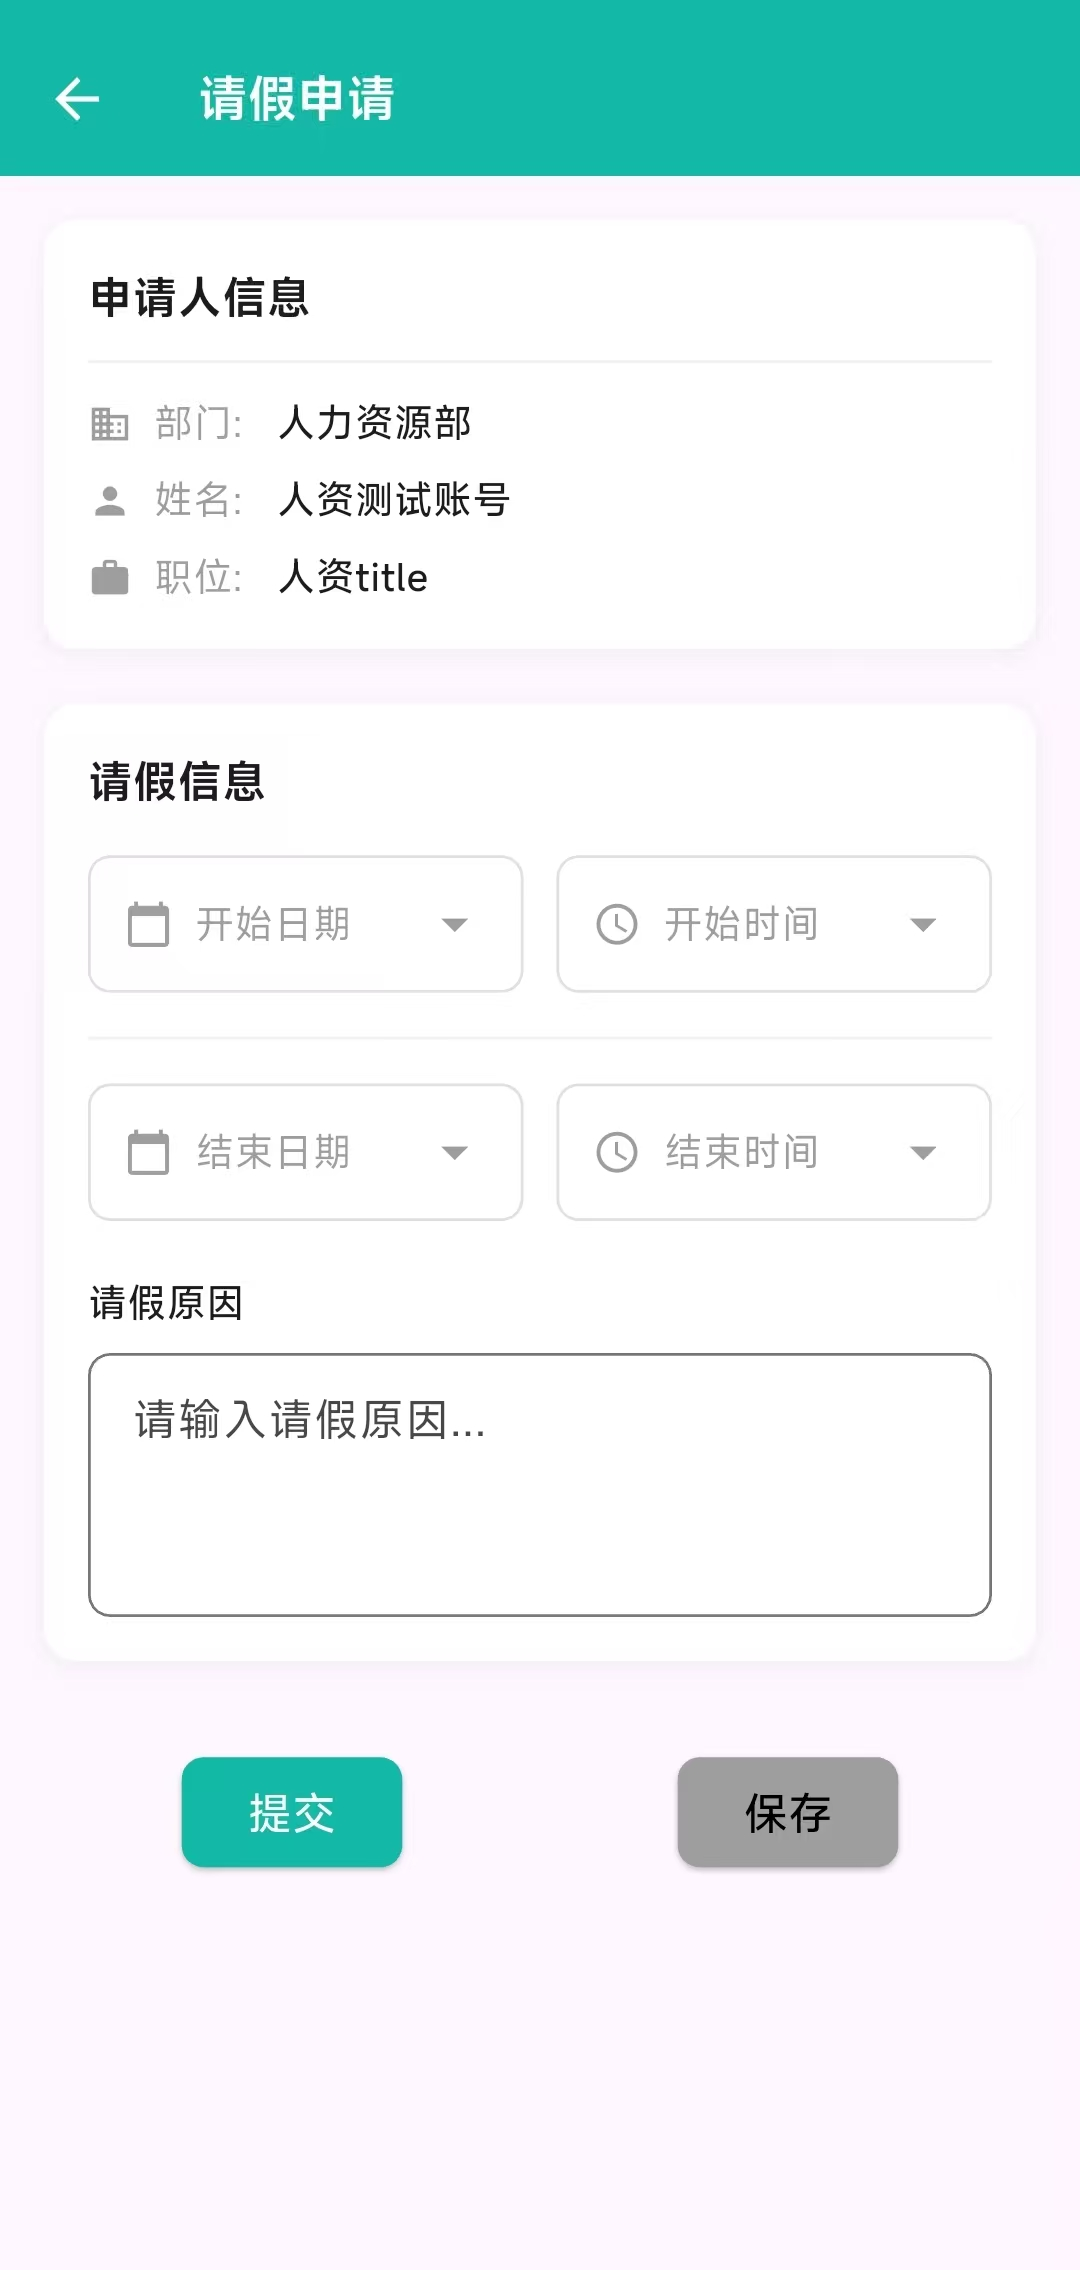
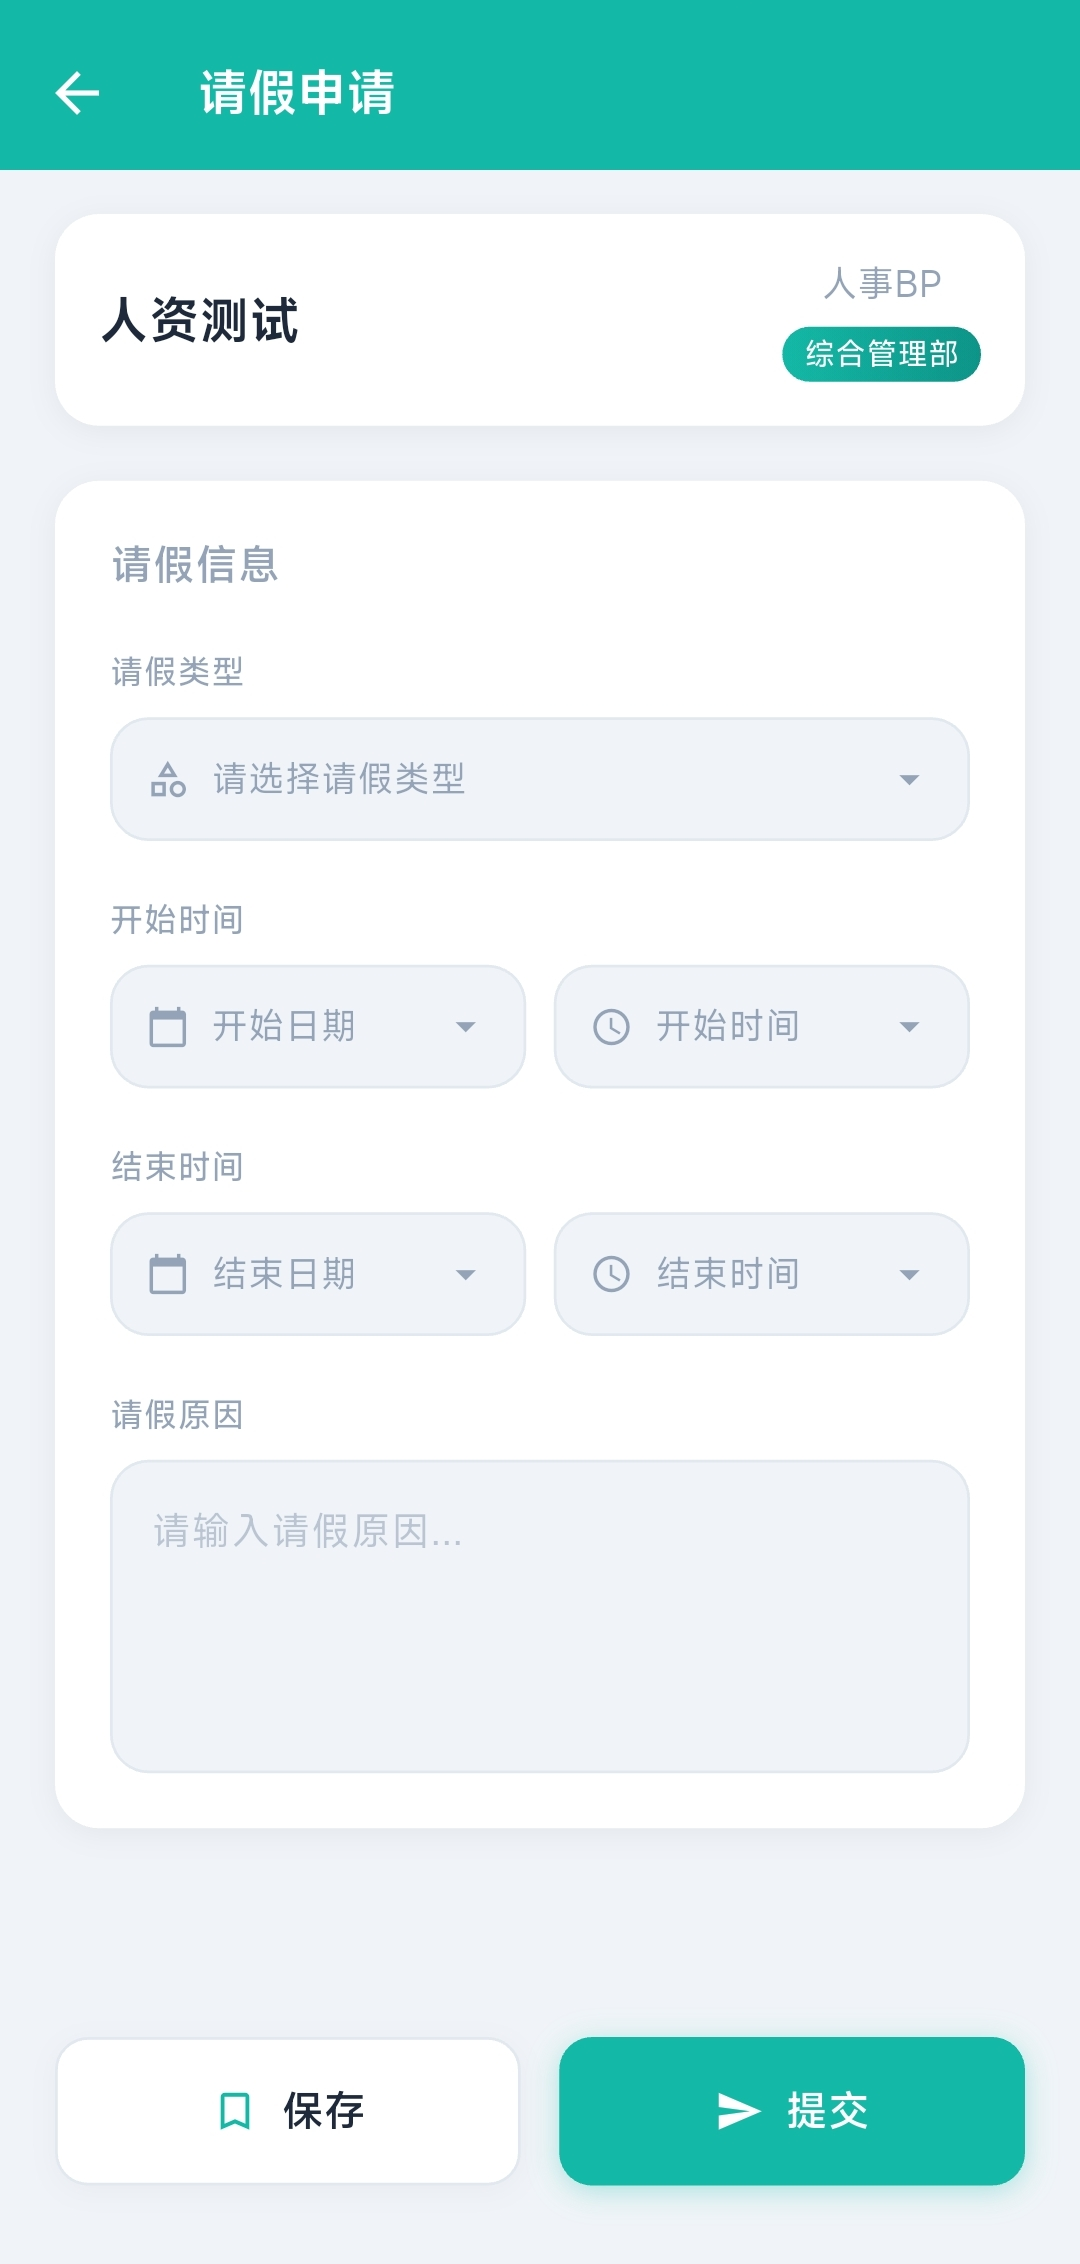
docs: 更新截图及README.md

diff --git a/README.md b/README.md
@@ -22,6 +22,12 @@ cn 简体中文 | us [English](README_EN.md)
   <img src="screenshots/leave.jpg" width="28%" alt="请假页" />
 </div>
 
+<div align="center">
+  <img src="screenshots/my-approval.jpg" width="28%" alt="待审批" />
+  <img src="screenshots/approve-detail.jpg" width="28%" alt="审批详情" />
+  <img src="screenshots/my-application.jpg" width="28%" alt="我的申请" />
+</div>
+
 <small>⚠️ 截图展示的 UI 样式可能不代表最新版本，实际界面以项目代码为准。</small>
 
 
@@ -31,10 +37,10 @@ cn 简体中文 | us [English](README_EN.md)
 
 - **用户认证**：支持账号密码登录、Token 自动刷新。
 - **打卡**：上下班打卡、打卡信息展示。
-- **审批流程**：发起请假申请。
+- **审批流程**：发起请假/加班申请，操作审批，查看我的申请。
 - **个性化**：多语言支持 (中文/英文)。
 
-*计划中功能：审批链、全局状态控制、自定义表单。*
+*计划中功能：全局状态控制、自定义表单。*
 
 ## 技术栈
 

diff --git a/README_EN.md b/README_EN.md
@@ -22,6 +22,12 @@
   <img src="screenshots/leave.jpg" width="28%" alt="Leave" />
 </div>
 
+<div align="center">
+  <img src="screenshots/my-approval.jpg" width="28%" alt="待审批" />
+  <img src="screenshots/approve-detail.jpg" width="28%" alt="审批详情" />
+  <img src="screenshots/my-application.jpg" width="28%" alt="我的申请" />
+</div>
+
 <small>⚠️ The UI shown in the screenshots may not reflect the latest version. Actual interface is based on the project code.</small>
 
 
@@ -31,10 +37,10 @@ The project is currently in its early stages. Implemented features include:
 
 - **Authentication**: Username/Password login with automatic Token refresh.
 - **Attendance**: Clock-in/out functionality with history display.
-- **Approval Workflow**: Initiate leave applications.
+- **Approval Workflow**: Initiate leave/overtime applications, manage approvals, and view my applications.
 - **Localization**: Multi-language support (Chinese/English).
 
-*Planned Features: Approval chains, Global State Management, Custom Form Engine.*
+*Planned Features: Global State Management, Custom Form Engine.*
 
 ## Tech Stack
 